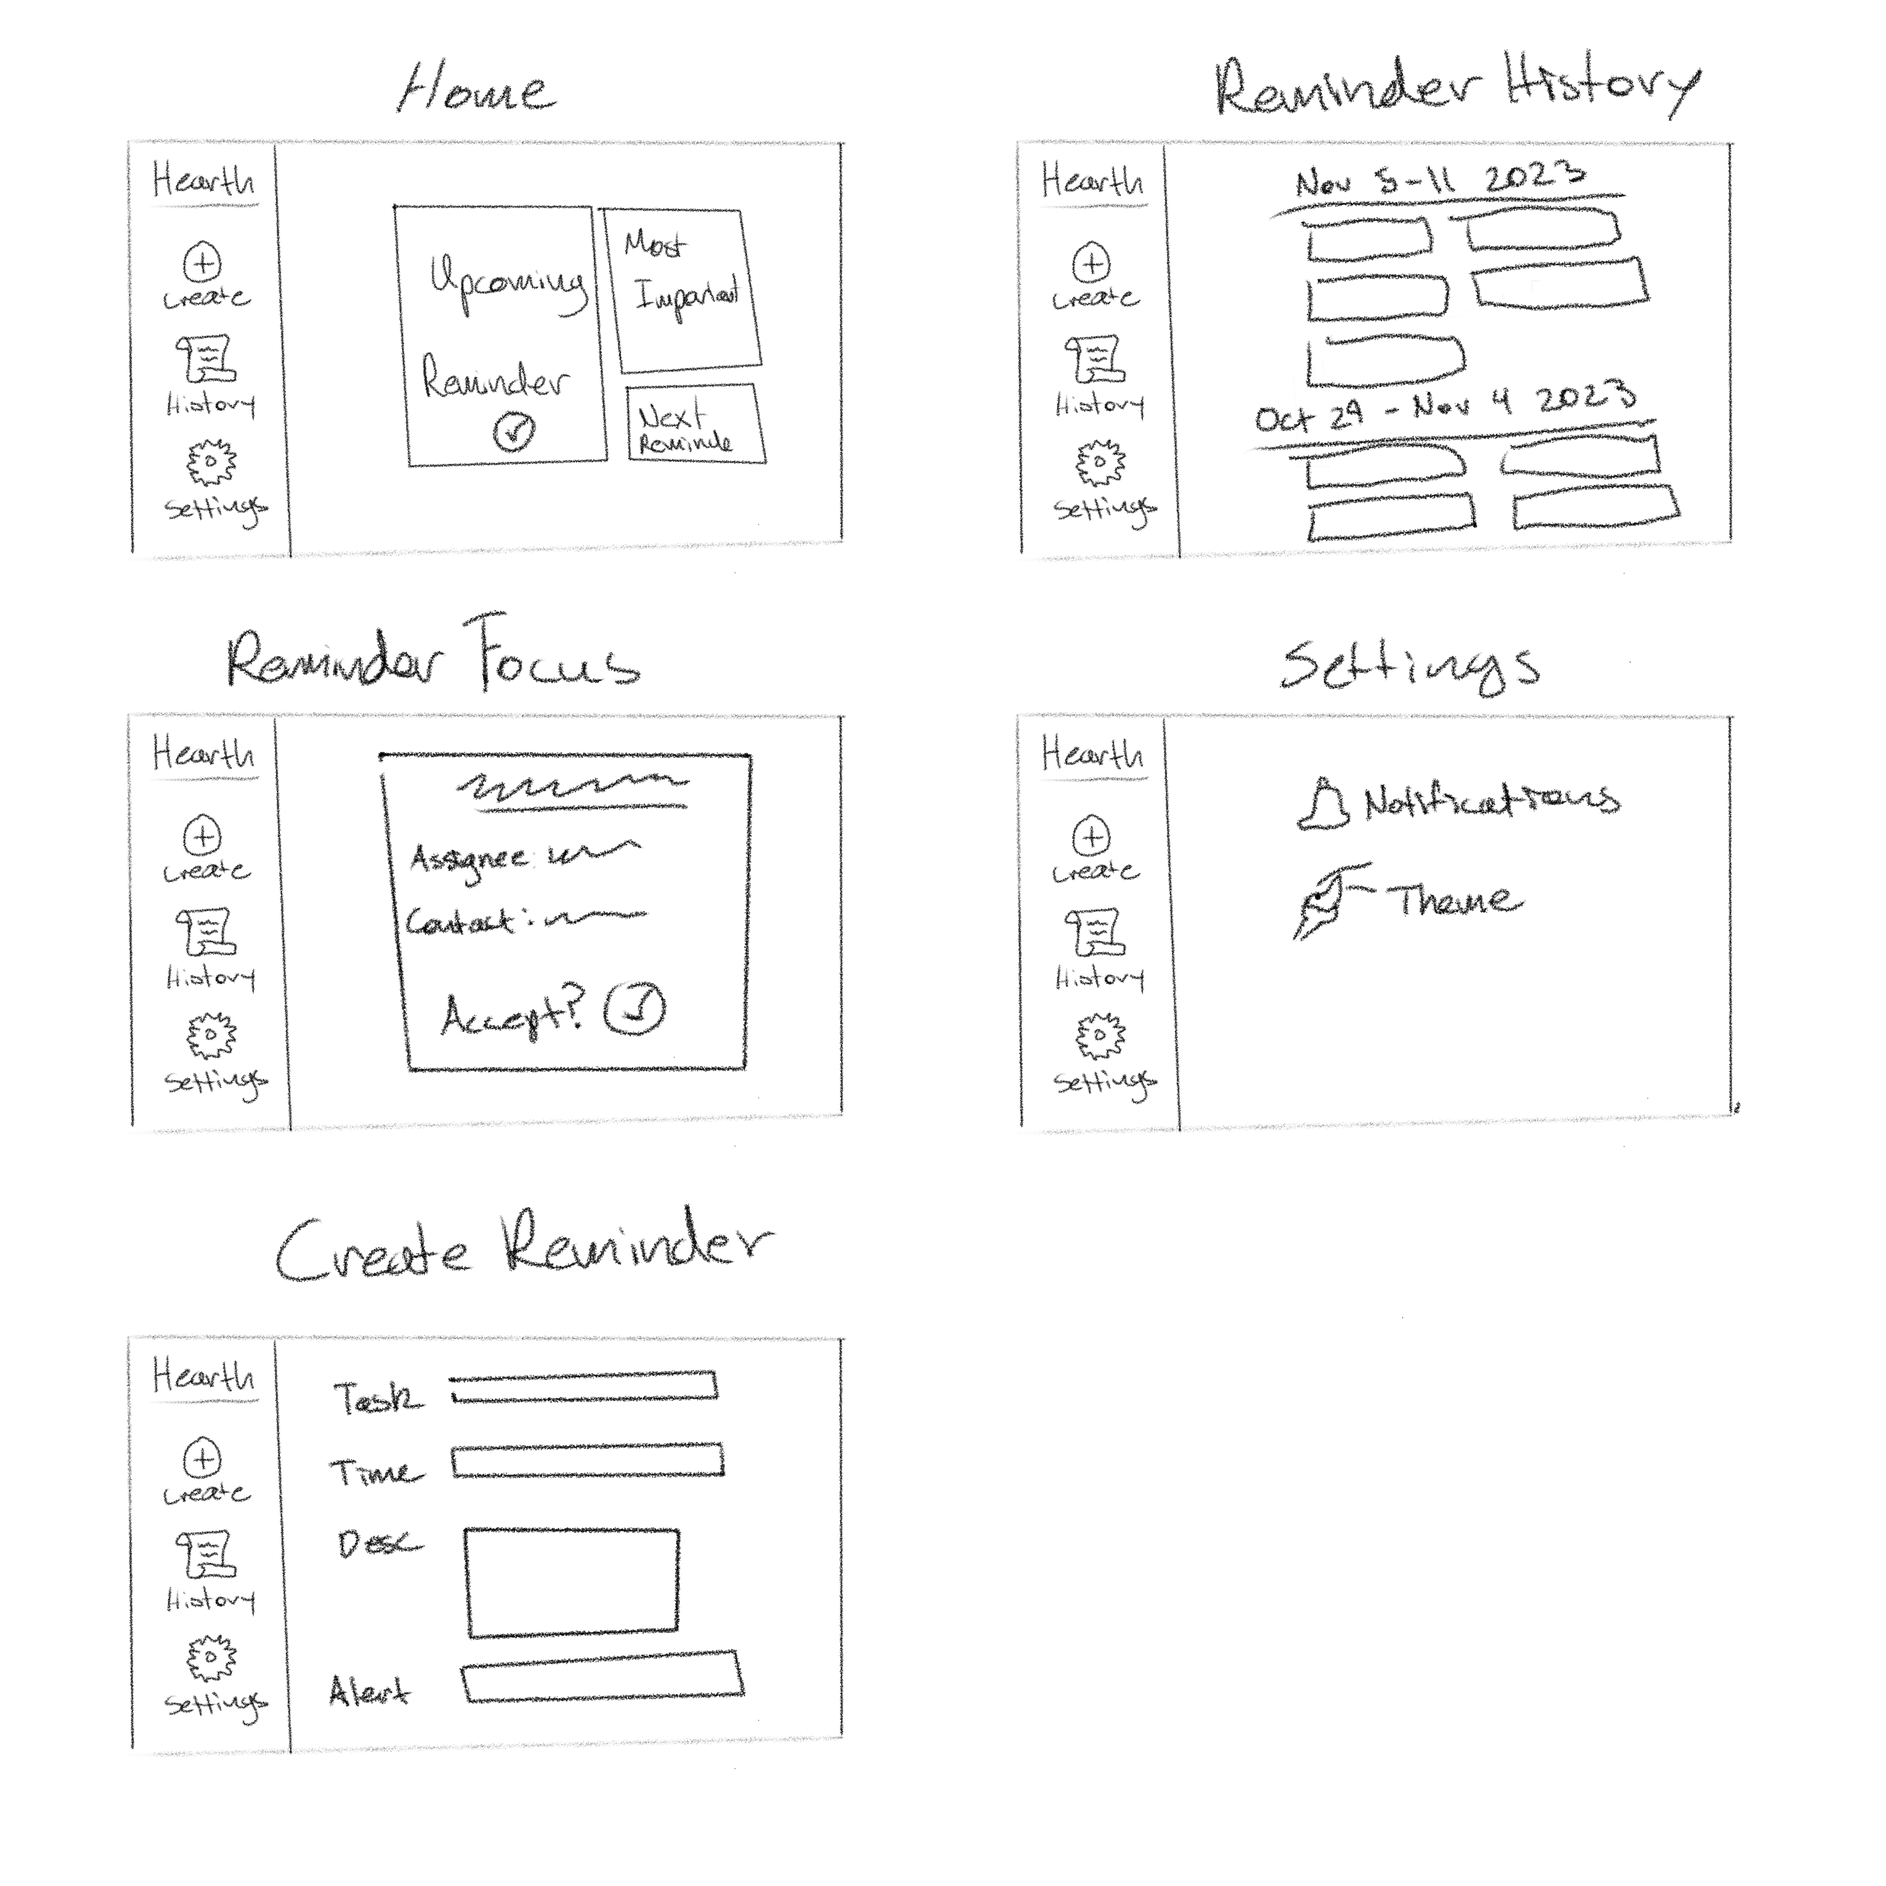
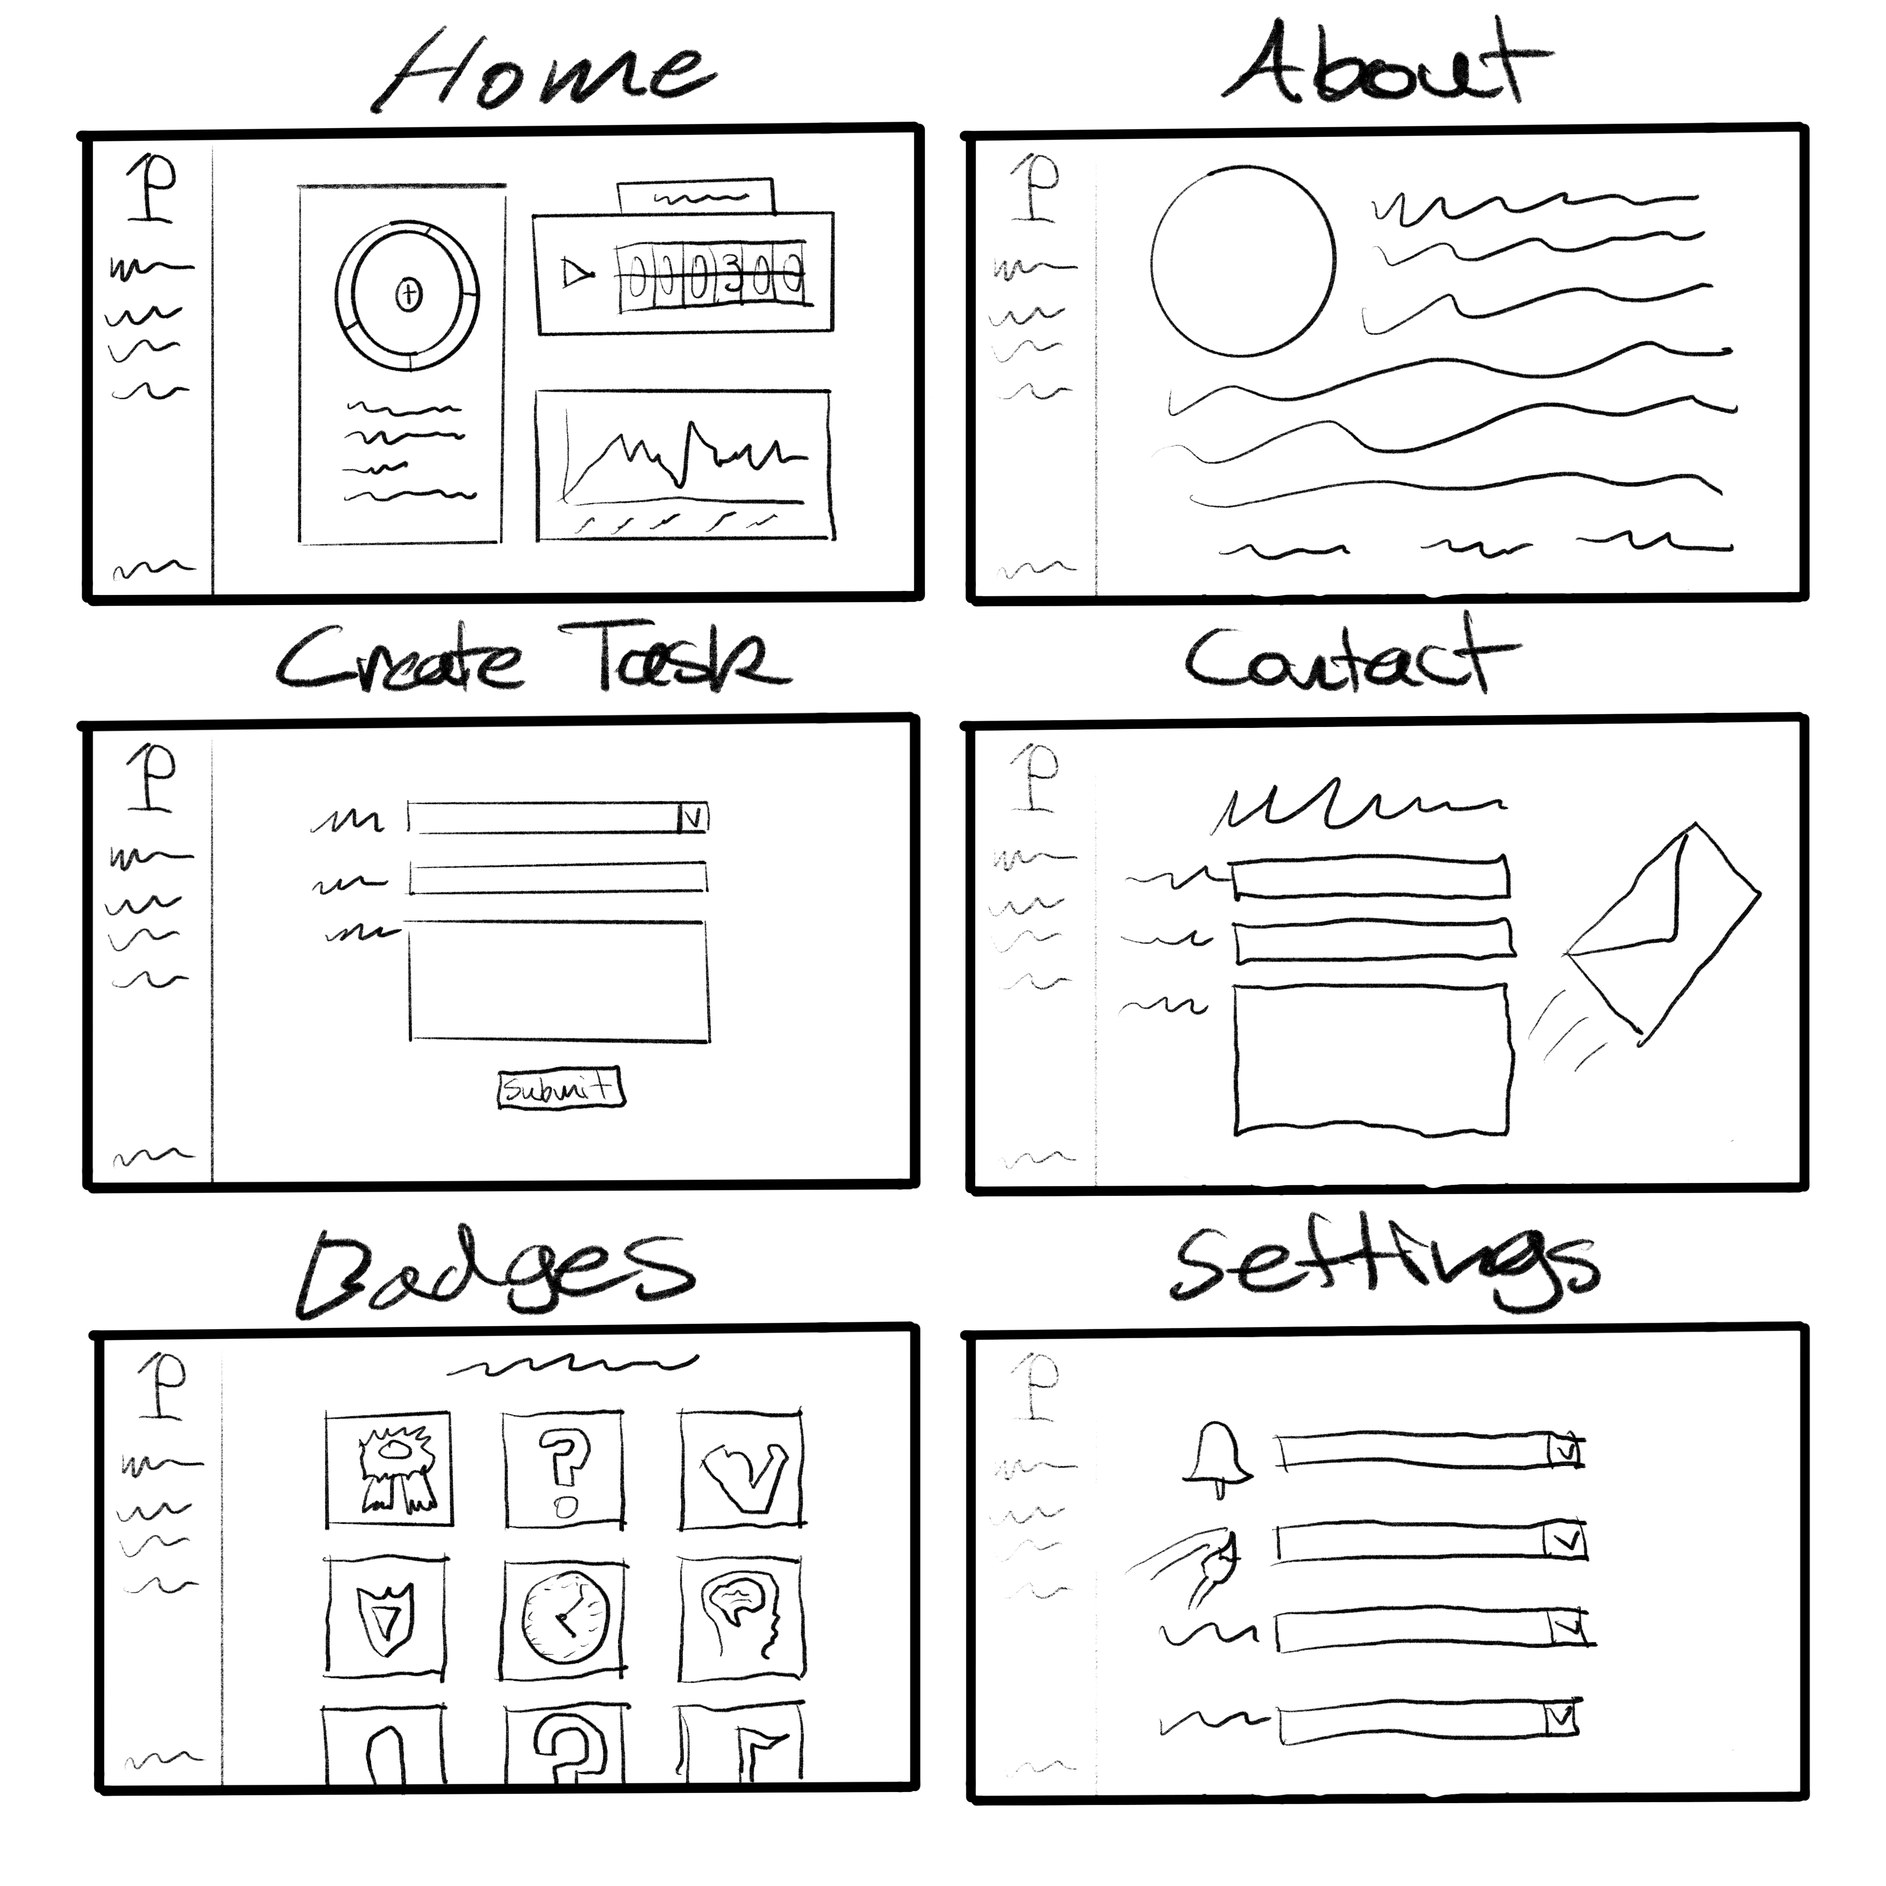
Updates from Hearth to Priora

diff --git a/pages/index.html b/pages/index.html
@@ -3,18 +3,21 @@
 <head>
   <meta charset="UTF-8">
   <meta name="viewport" content="width=device-width, initial-scale=1.0">
-  <title>Hearth | Home</title>
+  <title>Priora | Home</title>
+  <link rel="shortcut icon" type="image/png" href="../documents/img/logo.png">
   <link rel="stylesheet" href="style.css">
 </head>
 <body>
 
   <nav id="sidebar">
     <h1 id="header">
-      <a href="./index.html">Hearth</a>
+      <a href="./index.html">
+        <img src="../documents/img/logo.png" alt="" width="150px">
+      </a>
     </h1>
 
-    <a class="menu-item" href="./create.html">Create Reminder</a>
-    <a class="menu-item" href="./history.html">Reminder History</a>
+    <a class="menu-item" href="./create.html">Create Task</a>
+    <a class="menu-item" href="./badges.html">Badges</a>
     <a class="menu-item" href="./about.html">About</a>
     <a class="menu-item" href="./contact.html">Contact</a>
     <a class="menu-item" href="./settings.html">Settings</a>
@@ -27,13 +30,13 @@
   <main>
     <div id="reminders-wrapper">
       <div id="large-reminder" class="home-reminder">
-        <h1>Upcoming Reminder</h1>
-      </div>
-      <div id="medium-reminder" class="home-reminder">
-        <h2>Most Important</h2>
+        <h1>Tasks Content</h1>
       </div>
       <div id="small-reminder" class="home-reminder">
-        <h3>Next Reminder</h3>
+        <h3>Clocks</h3>
+      </div>
+      <div id="medium-reminder" class="home-reminder">
+        <h2>Graphs</h2>
       </div>
     </div>
   </main>

diff --git a/pages/style.css b/pages/style.css
@@ -16,6 +16,10 @@
   box-sizing: border-box;
 }
 
+body {
+  background-color: black;
+}
+
 /* Sidbar Styles */
 #sidebar {
   /* Sets position of sidebar to be constant on the page */
@@ -23,7 +27,7 @@
   width: var(--main-shift);
   /* Sets sidebar viewheight to 100% */
   height: 100vh;
-  background-color: #F37748;
+  background-color: #1F385C;
   padding: 30px 0;
 
   display: flex;
@@ -72,21 +76,22 @@ main {
 
 /* <main> Homepage Styles */
 #reminders-wrapper {
-  background-color: #F37748;
-  height: 500px;
-  width: 500px;
+  /* background-color: #1F385C; */
+  height: 650px;
+  width: 1200px;
   display: grid;
   /* Creating grid cells and filling them with a */
   grid-template-areas:
-    "large-reminder medium-reminder"
-    "large-reminder medium-reminder"
-    "large-reminder small-reminder"
+    "large-reminder small-reminder small-reminder"
+    "large-reminder medium-reminder medium-reminder"
+    "large-reminder medium-reminder medium-reminder"
   ;
 }
 
 #reminders-wrapper > div {
   border: 5px solid white;
   padding: 5px;
+  margin: 50px;
   text-align: center;
 }
 

diff --git a/pages/settings.html b/pages/settings.html
@@ -3,19 +3,22 @@
 <head>
   <meta charset="UTF-8">
   <meta name="viewport" content="width=device-width, initial-scale=1.0">
-  <title>Hearth | Settings</title>
+  <title>Priora | Settings</title>
+  <link rel="shortcut icon" type="image/png" href="../documents/img/logo.png">
   <link rel="stylesheet" href="style.css">
 </head>
 <body>
 
   <nav id="sidebar">
     <h1 id="header">
-      <a href="./index.html">Hearth</a>
+      <a href="./index.html">
+        <img src="../documents/img/logo.png" alt="" width="150px">
+      </a>
     </h1>
 
     <!-- Page Links -->
-    <a class="menu-item" href="./create.html">Create Reminder</a>
-    <a class="menu-item" href="./history.html">Reminder History</a>
+    <a class="menu-item" href="./create.html">Create Task</a>
+    <a class="menu-item" href="./badges.html">Badges</a>
     <a class="menu-item" href="./about.html">About</a>
     <a class="menu-item" href="./contact.html">Contact</a>
     <a class="menu-item" href="./settings.html">Settings</a>

diff --git a/pages/contact.html b/pages/contact.html
@@ -3,19 +3,22 @@
 <head>
   <meta charset="UTF-8">
   <meta name="viewport" content="width=device-width, initial-scale=1.0">
-  <title>Hearth | Contact</title>
+  <title>Priora | Contact</title>
+  <link rel="shortcut icon" type="image/png" href="../documents/img/logo.png">
   <link rel="stylesheet" href="style.css">
 </head>
 <body>
 
   <nav id="sidebar">
     <h1 id="header">
-      <a href="./index.html">Hearth</a>
+      <a href="./index.html">
+        <img src="../documents/img/logo.png" alt="" width="150px">
+      </a>
     </h1>
 
     <!-- Page Links -->
-    <a class="menu-item" href="./create.html">Create Reminder</a>
-    <a class="menu-item" href="./history.html">Reminder History</a>
+    <a class="menu-item" href="./create.html">Create Task</a>
+    <a class="menu-item" href="./badges.html">Badges</a>
     <a class="menu-item" href="./about.html">About</a>
     <a class="menu-item" href="./contact.html">Contact</a>
     <a class="menu-item" href="./settings.html">Settings</a>

diff --git a/pages/badges.html b/pages/badges.html
@@ -3,19 +3,22 @@
 <head>
   <meta charset="UTF-8">
   <meta name="viewport" content="width=device-width, initial-scale=1.0">
-  <title>Hearth | History</title>
+  <title>Priora | Badges</title>
+  <link rel="shortcut icon" type="image/png" href="../documents/img/logo.png">
   <link rel="stylesheet" href="style.css">
 </head>
 <body>
 
   <nav id="sidebar">
     <h1 id="header">
-      <a href="./index.html">Hearth</a>
+      <a href="./index.html">
+        <img src="../documents/img/logo.png" alt="" width="150px">
+      </a>
     </h1>
 
     <!-- Page Links -->
-    <a class="menu-item" href="./create.html">Create Reminder</a>
-    <a class="menu-item" href="./history.html">Reminder History</a>
+    <a class="menu-item" href="./create.html">Create Task</a>
+    <a class="menu-item" href="./badges.html">Badges</a>
     <a class="menu-item" href="./about.html">About</a>
     <a class="menu-item" href="./contact.html">Contact</a>
     <a class="menu-item" href="./settings.html">Settings</a>

diff --git a/pages/create.html b/pages/create.html
@@ -3,19 +3,22 @@
 <head>
   <meta charset="UTF-8">
   <meta name="viewport" content="width=device-width, initial-scale=1.0">
-  <title>Hearth | Create</title>
+  <title>Priora | Create</title>
+  <link rel="shortcut icon" type="image/png" href="../documents/img/logo.png">
   <link rel="stylesheet" href="style.css">
 </head>
 <body>
 
   <nav id="sidebar">
     <h1 id="header">
-      <a href="./index.html">Hearth</a>
+      <a href="./index.html">
+        <img src="../documents/img/logo.png" alt="" width="150px">
+      </a>
     </h1>
 
     <!-- Page Links -->
-    <a class="menu-item" href="./create.html">Create Reminder</a>
-    <a class="menu-item" href="./history.html">Reminder History</a>
+    <a class="menu-item" href="./create.html">Create Task</a>
+    <a class="menu-item" href="./badges.html">Badges</a>
     <a class="menu-item" href="./about.html">About</a>
     <a class="menu-item" href="./contact.html">Contact</a>
     <a class="menu-item" href="./settings.html">Settings</a>

diff --git a/pages/about.html b/pages/about.html
@@ -3,19 +3,22 @@
 <head>
   <meta charset="UTF-8">
   <meta name="viewport" content="width=device-width, initial-scale=1.0">
-  <title>Hearth | About</title>
+  <title>Priora | About</title>
+  <link rel="shortcut icon" type="image/png" href="../documents/img/logo.png">
   <link rel="stylesheet" href="style.css">
 </head>
 <body>
 
   <nav id="sidebar">
     <h1 id="header">
-      <a href="./index.html">Hearth</a>
+      <a href="./index.html">
+        <img src="../documents/img/logo.png" alt="" width="150px">
+      </a>
     </h1>
 
     <!-- Page Links -->
-    <a class="menu-item" href="./create.html">Create Reminder</a>
-    <a class="menu-item" href="./history.html">Reminder History</a>
+    <a class="menu-item" href="./create.html">Create Task</a>
+    <a class="menu-item" href="./badges.html">Badges</a>
     <a class="menu-item" href="./about.html">About</a>
     <a class="menu-item" href="./contact.html">Contact</a>
     <a class="menu-item" href="./settings.html">Settings</a>

diff --git a/documents/project-planning.md b/documents/project-planning.md
@@ -1,9 +1,8 @@
 # Definition Statement
 
 I want to build an application that...
-- Application Goal: Decrease lack of family interaction and help organize/maintain a home & family relations.
-- End User Incorporation: I will have my boyfriend and his siblings be the family to take care of the cats/dogs,
-check/update the fridge contents, and add any other misc tasks
+- Application Goal: Vastly improves someone's motivation, health, and productivity for their everyday life
+- End User Incorporation: I will have my boyfriend, his siblings, and myself be the main users to see if it improves our daily productivity
 - End User Incorporation Start Date: Once basic JavaScript functionality is implemented
 - End User Incorporation Importance: Get a better understanding of what feels/looks best in the application and
 check for bugs
@@ -12,9 +11,12 @@ check for bugs
 # Audience
 
 Who is using my application
-- Family
-- Family friends
-- Close household neighbors
+- Students
+- Health Trackers
+- Athletes
+- Workers
+- Goal Oriented People
+- Anyone
 
 # Content Outline
 
@@ -23,27 +25,28 @@ What will be on each page
 
 What is the functionality of each page
 - Home: Display reminders
-- Reminder Focus: Displays in-depth content for a reminder
-- Create Reminder: Allows users to fill out a form to create a reminder
-- Reminder History: Allows user to view previous reminders to quickly create a reminder from a previous one
+- Create Task: Allows users to fill out a form to create a task and adding goals
+- Badges: Allows user to view their accomplishments for completing goals
+- About: Shows user app & developer bio
+- Contact: Contact info for portfolios and bug submission
 - Settings: Allow users to change application settings such as theme, notifications, etc.
 
 What is purpose of my application
-- Organize/maintain household tasks
+- Increase personal productivity
 
 What business or real world problem am I going to be solving
-- The real world problem is that of a household struggling to maintain all the daily routines
+- The real world problem is that of a person struggling to improve themselves
 
 ### Website attributes
 
-- Slogan: "Helping Home Feel Like Home"
+- Slogan: "Prioritizing 1 Task at a Time"
 
 - Color palette:
-  - Charcoal (Dark Mode): #2C4251
+  - Black (Dark Mode): #000
   - White (Light Mode): #FFFFFF
-  - Jonquil: #ECC30B
-  - Coral: #F37748
-  - Indian Red: #D56062
+  - Viridian: #3F7859
+  - Berkely Blue: #1F385C
+  - Red (NCS): #BF0D34
 
 - Images
 
@@ -51,10 +54,14 @@ What business or real world problem am I going to be solving
 
 - Logos
 
+<img src="./img/logo.png" width="300px" />
+
 - Navigation
   - Home
-  - Create Reminder
-  - Reminder History
+  - Create Task
+  - Badges
+  - About
+  - Contact
   - Settings
 
 # Mural User Story Map
@@ -66,29 +73,25 @@ What business or real world problem am I going to be solving
 ### List of applications researched
 
 - What do you like about each site
-  - _Cozi_: Has a recipe page that family members can choose from a wide variety of dishes
-  - _FamilyWall_: The homepage displays a "wall" of cards for a plethora of options such as budgets,
-  photo galleries, and even location tracking for everyone.
-  - _Pixie_: Allows users to create "boards" so family members can view important information about
-  specific family issues such as home maitenance, car needs, etc. while giving suggestions for what
-  might need to be done
+  - _Pomofocus_: The app is intuitive, nice looking, contains a report section showing graphs of user progress, and has a lot of customization
+  - _Super-Productivity_: Has the ability to add Projects for switching between different focus profiles on certain days (study Tuesday, work Thursday, YouTube Saturday)
+  - _Health by Apple_: Allows the tracking of different health aspects and returns data in that form
 
 - What do you NOT like about each site
-  - _Cozi_: The interface is bland and doesn't have a lot of options for what tasks need to be done
-  - _FamilyWall_: It does not display any time-sensitive information on the homepage
-  - _Pixie_: Adding/editing content is not very intuitive
+  - _Pomofocus_: Simply lacks some of my vision for displaying information to users and is a pomodoro focused productivity application
+  - _Super-Productivity_: Not super intuitive, and when explaining features in the app it is filled with long paragraphs of instructions
+  - _Health by Apple_: Adding/editing content is not very intuitive and it does not automatically update graphs from a bundle of data you put in unless using a device like an Apple Watch
 
 - How will your application be different
-  - My application will display time-sensitive tasks on the homepage and will have a much more
-  intuitive UI with better styling.
+  - My application will display a few graphs at once with a fair amount of information and allow for a seamless adding/editing/deletion and progression of tasks
 
 # Wireframes
 
-![Wireframe](./img/wireframe.png)
+<img src="./img/wireframe.png" width="500px" />
 
 # User Flow Diagram
 
-![User Flow Image](./img/userflow.png)
+<img src="./img/userflow.png" width="500px" />
 
 # SWOT Analysis
 
